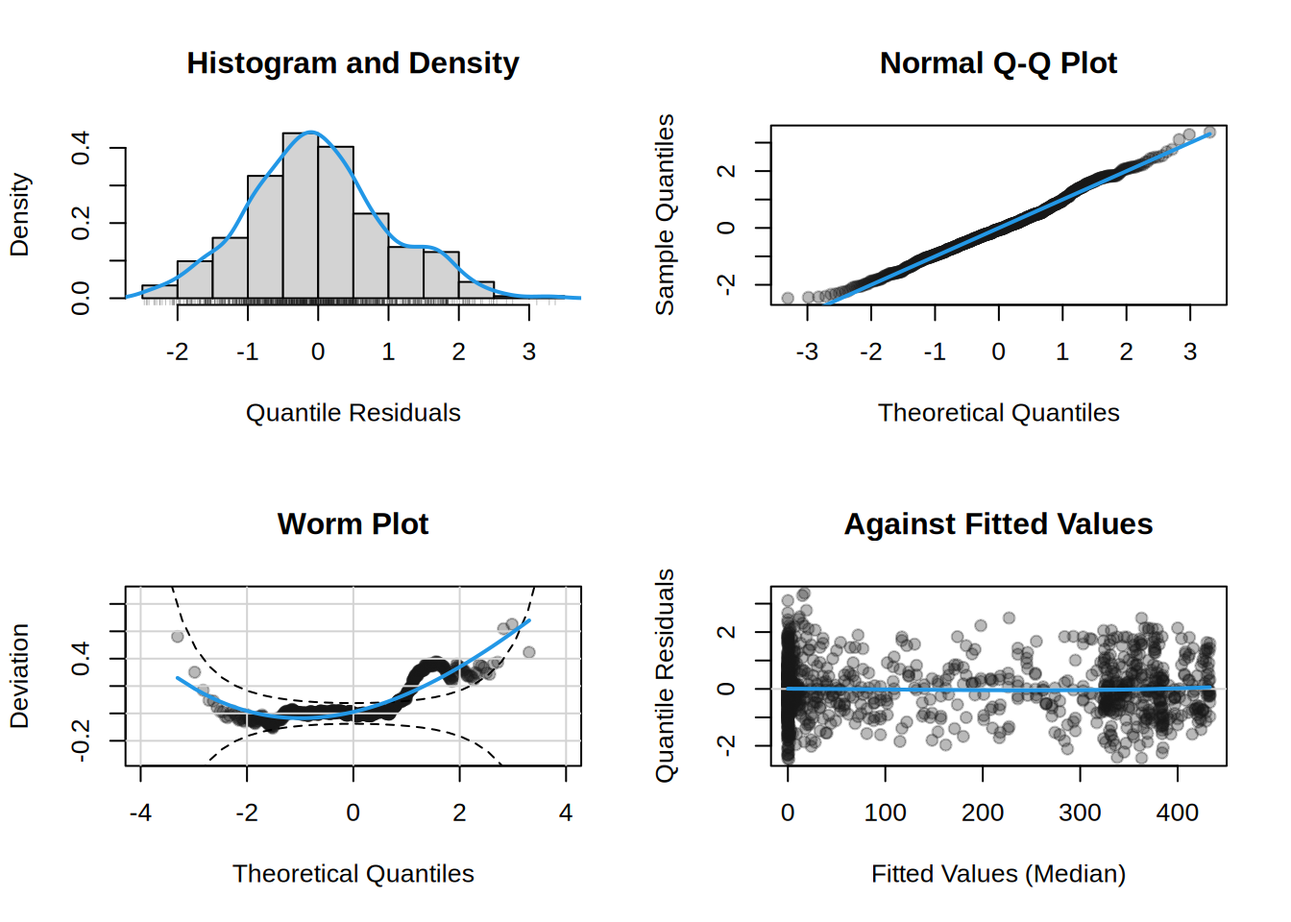
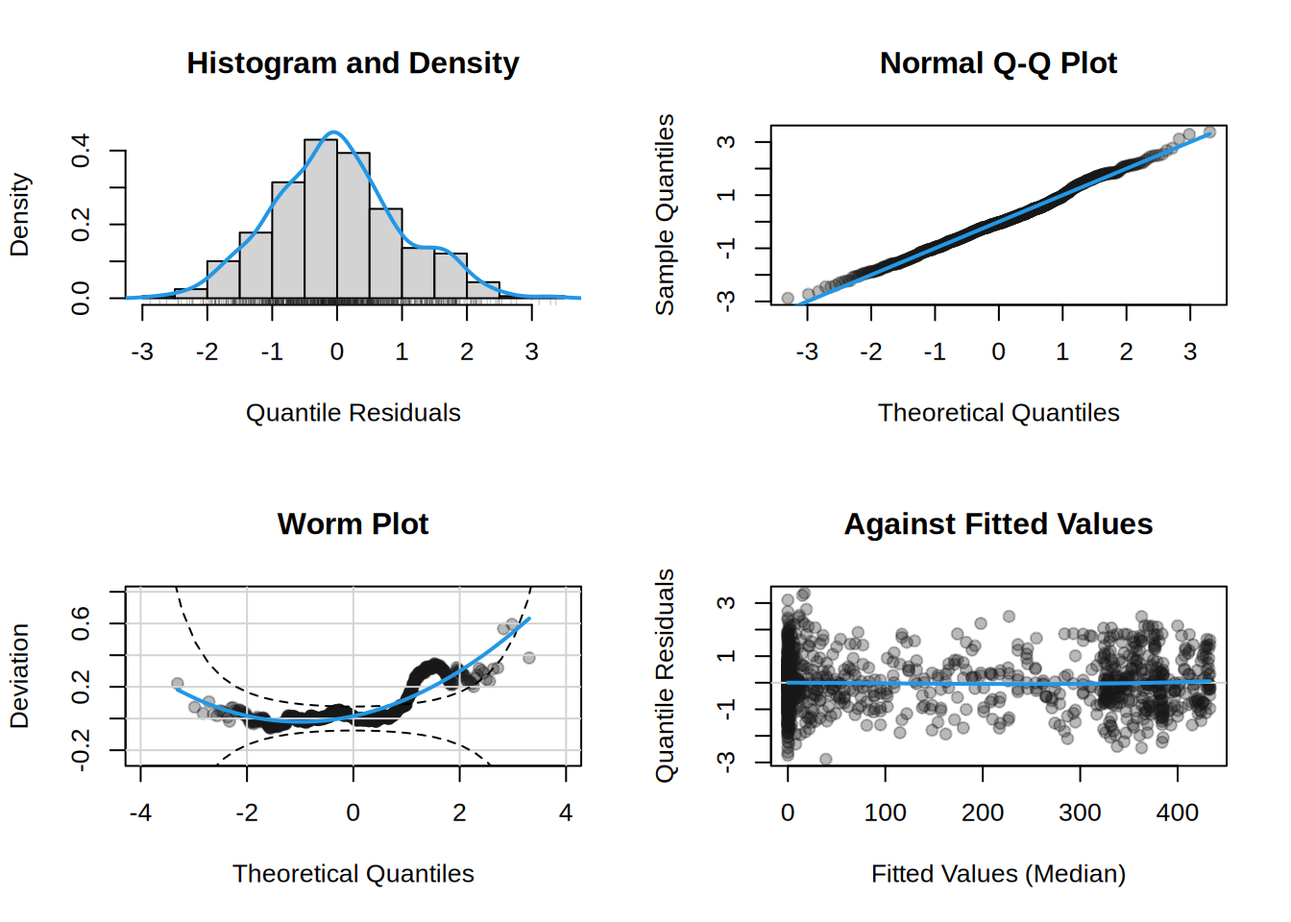
Deploying to gh-pages from @ gamlss-dev/gamlss2@9775f14df7013b6e7da98de3ab392d1b850da99a 🚀

diff --git a/man/la.html b/man/la.html
@@ -641,7 +641,7 @@ For function <code>la()</code> further control arguments can be passed: The <cod
 <p>For normal Lasso penalties, numeric covariates and matrices are scaled column-wise so that each column has Euclidean norm <span class="math inline">\(\sqrt{n}\)</span>. This corresponds to standard Lasso scaling and ensures that shrinkage is applied uniformly across covariates. If a factor is used with a normal penalty, a single scalar scaling is applied, analogous to the ordinal and nominal cases.</p>
 </dd>
 </dl>
-<p>The applied scaling is stored internally and automatically reused during prediction. When <code>plot_lasso()</code> is called with <code>rescale = TRUE</code>, coefficient paths are transformed back to the original parameterization to facilitate interpretation.</p>
+<p>The applied scaling is stored internally and automatically reused during prediction.</p>
 </section>
 <section id="value" class="level3">
 <h3 class="anchored" data-anchor-id="value">Value</h3>
@@ -666,16 +666,16 @@ For function <code>la()</code> further control arguments can be passed: The <cod
 <span id="cb1-4"><a href="#cb1-4" aria-hidden="true" tabindex="-1"></a><span class="fu">data</span>(<span class="st">"rent"</span>, <span class="at">package =</span> <span class="st">"gamlss.data"</span>)</span>
 <span id="cb1-5"><a href="#cb1-5" aria-hidden="true" tabindex="-1"></a></span>
 <span id="cb1-6"><a href="#cb1-6" aria-hidden="true" tabindex="-1"></a><span class="do">## transform numeric to factor variables</span></span>
-<span id="cb1-7"><a href="#cb1-7" aria-hidden="true" tabindex="-1"></a>rent<span class="sc">$</span>Flc <span class="ot">&lt;-</span> <span class="fu">cut</span>(rent<span class="sc">$</span>Fl, <span class="at">breaks =</span> <span class="fu">seq</span>(<span class="dv">20</span>, <span class="dv">160</span>, <span class="at">by =</span> <span class="dv">10</span>),</span>
+<span id="cb1-7"><a href="#cb1-7" aria-hidden="true" tabindex="-1"></a>rent<span class="sc">$</span>Flc <span class="ot">&lt;-</span> <span class="fu">cut</span>(rent<span class="sc">$</span>Fl, <span class="at">breaks =</span> <span class="fu">seq</span>(<span class="dv">20</span>, <span class="dv">120</span>, <span class="at">by =</span> <span class="dv">10</span>),</span>
 <span id="cb1-8"><a href="#cb1-8" aria-hidden="true" tabindex="-1"></a>  <span class="at">include.lowest =</span> <span class="cn">TRUE</span>)</span>
 <span id="cb1-9"><a href="#cb1-9" aria-hidden="true" tabindex="-1"></a>rent<span class="sc">$</span>Ac <span class="ot">&lt;-</span> <span class="fu">cut</span>(rent<span class="sc">$</span>A, <span class="at">breaks =</span> <span class="fu">seq</span>(<span class="dv">1890</span>, <span class="dv">1990</span>, <span class="at">by =</span> <span class="dv">10</span>),</span>
 <span id="cb1-10"><a href="#cb1-10" aria-hidden="true" tabindex="-1"></a>  <span class="at">include.lowest =</span> <span class="cn">TRUE</span>)</span>
 <span id="cb1-11"><a href="#cb1-11" aria-hidden="true" tabindex="-1"></a></span>
-<span id="cb1-12"><a href="#cb1-12" aria-hidden="true" tabindex="-1"></a><span class="do">## set up the model formula for a BCT model</span></span>
-<span id="cb1-13"><a href="#cb1-13" aria-hidden="true" tabindex="-1"></a>f <span class="ot">&lt;-</span> R <span class="sc">~</span> <span class="fu">la</span>(Flc,<span class="at">type=</span><span class="dv">3</span>) <span class="sc">+</span> <span class="fu">la</span>(Ac,<span class="at">type=</span><span class="dv">3</span>) <span class="sc">+</span> <span class="fu">la</span>(loc,<span class="at">type=</span><span class="dv">3</span>) <span class="sc">|</span> . <span class="sc">|</span> .</span>
+<span id="cb1-12"><a href="#cb1-12" aria-hidden="true" tabindex="-1"></a><span class="do">## set up the model formula for a NO model</span></span>
+<span id="cb1-13"><a href="#cb1-13" aria-hidden="true" tabindex="-1"></a>f <span class="ot">&lt;-</span> R <span class="sc">~</span> <span class="fu">la</span>(Flc,<span class="at">type=</span><span class="dv">3</span>) <span class="sc">+</span> <span class="fu">la</span>(Ac,<span class="at">type=</span><span class="dv">3</span>) <span class="sc">+</span> <span class="fu">la</span>(loc,<span class="at">type=</span><span class="dv">3</span>) <span class="sc">|</span> .</span>
 <span id="cb1-14"><a href="#cb1-14" aria-hidden="true" tabindex="-1"></a></span>
 <span id="cb1-15"><a href="#cb1-15" aria-hidden="true" tabindex="-1"></a><span class="do">## estimation</span></span>
-<span id="cb1-16"><a href="#cb1-16" aria-hidden="true" tabindex="-1"></a>b <span class="ot">&lt;-</span> <span class="fu">gamlss2</span>(f, <span class="at">data =</span> rent, <span class="at">family =</span> BCT)</span>
+<span id="cb1-16"><a href="#cb1-16" aria-hidden="true" tabindex="-1"></a>b <span class="ot">&lt;-</span> <span class="fu">gamlss2</span>(f, <span class="at">data =</span> rent, <span class="at">family =</span> NO)</span>
 <span id="cb1-17"><a href="#cb1-17" aria-hidden="true" tabindex="-1"></a></span>
 <span id="cb1-18"><a href="#cb1-18" aria-hidden="true" tabindex="-1"></a><span class="do">## summary, shows the estimated degrees of freedom</span></span>
 <span id="cb1-19"><a href="#cb1-19" aria-hidden="true" tabindex="-1"></a><span class="do">## for each model term</span></span>
@@ -692,64 +692,64 @@ For function <code>la()</code> further control arguments can be passed: The <cod
 <span id="cb1-30"><a href="#cb1-30" aria-hidden="true" tabindex="-1"></a><span class="fu">plot_lasso</span>(b, <span class="at">which =</span> <span class="st">"coefficients"</span>)</span>
 <span id="cb1-31"><a href="#cb1-31" aria-hidden="true" tabindex="-1"></a></span>
 <span id="cb1-32"><a href="#cb1-32" aria-hidden="true" tabindex="-1"></a><span class="do">## plot a single model term.</span></span>
-<span id="cb1-33"><a href="#cb1-33" aria-hidden="true" tabindex="-1"></a><span class="fu">plot_lasso</span>(b, <span class="at">which =</span> <span class="st">"coefficients"</span>, <span class="at">term =</span> <span class="dv">5</span>)</span>
+<span id="cb1-33"><a href="#cb1-33" aria-hidden="true" tabindex="-1"></a><span class="fu">plot_lasso</span>(b, <span class="at">which =</span> <span class="st">"coefficients"</span>, <span class="at">term =</span> <span class="dv">1</span>)</span>
 <span id="cb1-34"><a href="#cb1-34" aria-hidden="true" tabindex="-1"></a></span>
 <span id="cb1-35"><a href="#cb1-35" aria-hidden="true" tabindex="-1"></a><span class="do">## same with</span></span>
-<span id="cb1-36"><a href="#cb1-36" aria-hidden="true" tabindex="-1"></a><span class="fu">plot_lasso</span>(b, <span class="at">which =</span> <span class="st">"coefficients"</span>, <span class="at">term =</span> <span class="st">"sigma.la(Ac"</span>)</span>
+<span id="cb1-36"><a href="#cb1-36" aria-hidden="true" tabindex="-1"></a><span class="fu">plot_lasso</span>(b, <span class="at">which =</span> <span class="st">"coefficients"</span>, <span class="at">term =</span> <span class="st">"mu.la(Flc"</span>)</span>
 <span id="cb1-37"><a href="#cb1-37" aria-hidden="true" tabindex="-1"></a></span>
 <span id="cb1-38"><a href="#cb1-38" aria-hidden="true" tabindex="-1"></a><span class="do">## zoom out</span></span>
-<span id="cb1-39"><a href="#cb1-39" aria-hidden="true" tabindex="-1"></a><span class="fu">plot_lasso</span>(b, <span class="at">which =</span> <span class="st">"coefficients"</span>, <span class="at">term =</span> <span class="dv">5</span>,</span>
+<span id="cb1-39"><a href="#cb1-39" aria-hidden="true" tabindex="-1"></a><span class="fu">plot_lasso</span>(b, <span class="at">which =</span> <span class="st">"coefficients"</span>, <span class="at">term =</span> <span class="dv">1</span>,</span>
 <span id="cb1-40"><a href="#cb1-40" aria-hidden="true" tabindex="-1"></a>  <span class="at">zoom =</span> <span class="fu">c</span>(<span class="dv">8</span>, <span class="dv">7</span>))</span>
 <span id="cb1-41"><a href="#cb1-41" aria-hidden="true" tabindex="-1"></a></span>
 <span id="cb1-42"><a href="#cb1-42" aria-hidden="true" tabindex="-1"></a><span class="do">## set names</span></span>
-<span id="cb1-43"><a href="#cb1-43" aria-hidden="true" tabindex="-1"></a><span class="fu">plot_lasso</span>(b, <span class="at">which =</span> <span class="st">"coefficients"</span>, <span class="at">term =</span> <span class="dv">5</span>,</span>
-<span id="cb1-44"><a href="#cb1-44" aria-hidden="true" tabindex="-1"></a>  <span class="at">zoom =</span> <span class="fu">c</span>(<span class="dv">8</span>, <span class="dv">7</span>), <span class="at">names =</span> <span class="fu">c</span>(<span class="st">"A"</span>, <span class="st">"B"</span>, <span class="st">"C"</span>))</span>
+<span id="cb1-43"><a href="#cb1-43" aria-hidden="true" tabindex="-1"></a><span class="fu">plot_lasso</span>(b, <span class="at">which =</span> <span class="st">"coefficients"</span>, <span class="at">term =</span> <span class="dv">1</span>,</span>
+<span id="cb1-44"><a href="#cb1-44" aria-hidden="true" tabindex="-1"></a>  <span class="at">zoom =</span> <span class="dv">10</span>, <span class="at">names =</span> <span class="fu">c</span>(<span class="st">"A"</span>, <span class="st">"B"</span>, <span class="st">"C"</span>))</span>
 <span id="cb1-45"><a href="#cb1-45" aria-hidden="true" tabindex="-1"></a></span>
 <span id="cb1-46"><a href="#cb1-46" aria-hidden="true" tabindex="-1"></a><span class="do">## set title</span></span>
-<span id="cb1-47"><a href="#cb1-47" aria-hidden="true" tabindex="-1"></a><span class="fu">plot_lasso</span>(b, <span class="at">which =</span> <span class="st">"coefficients"</span>, <span class="at">term =</span> <span class="dv">5</span>,</span>
-<span id="cb1-48"><a href="#cb1-48" aria-hidden="true" tabindex="-1"></a>  <span class="at">zoom =</span> <span class="fu">c</span>(<span class="dv">8</span>, <span class="dv">7</span>), <span class="at">main =</span> <span class="st">"Fused Lasso"</span>)</span>
-<span id="cb1-49"><a href="#cb1-49" aria-hidden="true" tabindex="-1"></a></span>
-<span id="cb1-50"><a href="#cb1-50" aria-hidden="true" tabindex="-1"></a><span class="do">## simulated example using the normal lasso</span></span>
-<span id="cb1-51"><a href="#cb1-51" aria-hidden="true" tabindex="-1"></a><span class="do">## and a matrix as argument for la()</span></span>
-<span id="cb1-52"><a href="#cb1-52" aria-hidden="true" tabindex="-1"></a><span class="fu">set.seed</span>(<span class="dv">123</span>)</span>
-<span id="cb1-53"><a href="#cb1-53" aria-hidden="true" tabindex="-1"></a></span>
-<span id="cb1-54"><a href="#cb1-54" aria-hidden="true" tabindex="-1"></a><span class="do">## number of observations and covariates</span></span>
-<span id="cb1-55"><a href="#cb1-55" aria-hidden="true" tabindex="-1"></a>n <span class="ot">&lt;-</span> <span class="dv">500</span></span>
-<span id="cb1-56"><a href="#cb1-56" aria-hidden="true" tabindex="-1"></a>k <span class="ot">&lt;-</span> <span class="dv">50</span></span>
-<span id="cb1-57"><a href="#cb1-57" aria-hidden="true" tabindex="-1"></a></span>
-<span id="cb1-58"><a href="#cb1-58" aria-hidden="true" tabindex="-1"></a><span class="do">## model matrix</span></span>
-<span id="cb1-59"><a href="#cb1-59" aria-hidden="true" tabindex="-1"></a>X <span class="ot">&lt;-</span> <span class="fu">matrix</span>(<span class="fu">rnorm</span>(n <span class="sc">*</span> k), n, k)</span>
-<span id="cb1-60"><a href="#cb1-60" aria-hidden="true" tabindex="-1"></a><span class="fu">colnames</span>(X) <span class="ot">&lt;-</span> <span class="fu">paste0</span>(<span class="st">"x"</span>, <span class="dv">1</span><span class="sc">:</span>k)</span>
-<span id="cb1-61"><a href="#cb1-61" aria-hidden="true" tabindex="-1"></a></span>
-<span id="cb1-62"><a href="#cb1-62" aria-hidden="true" tabindex="-1"></a><span class="do">## true coefficients</span></span>
-<span id="cb1-63"><a href="#cb1-63" aria-hidden="true" tabindex="-1"></a>beta <span class="ot">&lt;-</span> <span class="fu">list</span>(</span>
-<span id="cb1-64"><a href="#cb1-64" aria-hidden="true" tabindex="-1"></a>  <span class="st">"mu"</span> <span class="ot">=</span> <span class="fu">rbinom</span>(k, <span class="dv">1</span>, <span class="fl">0.1</span>),</span>
-<span id="cb1-65"><a href="#cb1-65" aria-hidden="true" tabindex="-1"></a>  <span class="st">"sigma"</span> <span class="ot">=</span> <span class="fu">rbinom</span>(k, <span class="dv">1</span>, <span class="fl">0.1</span>) <span class="sc">*</span> <span class="fl">0.3</span></span>
-<span id="cb1-66"><a href="#cb1-66" aria-hidden="true" tabindex="-1"></a>)</span>
-<span id="cb1-67"><a href="#cb1-67" aria-hidden="true" tabindex="-1"></a></span>
-<span id="cb1-68"><a href="#cb1-68" aria-hidden="true" tabindex="-1"></a><span class="do">## parameters</span></span>
-<span id="cb1-69"><a href="#cb1-69" aria-hidden="true" tabindex="-1"></a>mu <span class="ot">&lt;-</span> X <span class="sc">%*%</span> beta<span class="sc">$</span>mu</span>
-<span id="cb1-70"><a href="#cb1-70" aria-hidden="true" tabindex="-1"></a>sigma <span class="ot">&lt;-</span> <span class="fu">exp</span>(<span class="sc">-</span><span class="dv">1</span> <span class="sc">+</span> X <span class="sc">%*%</span> beta<span class="sc">$</span>sigma)</span>
-<span id="cb1-71"><a href="#cb1-71" aria-hidden="true" tabindex="-1"></a></span>
-<span id="cb1-72"><a href="#cb1-72" aria-hidden="true" tabindex="-1"></a><span class="do">## response</span></span>
-<span id="cb1-73"><a href="#cb1-73" aria-hidden="true" tabindex="-1"></a>y <span class="ot">&lt;-</span> <span class="fu">rnorm</span>(n, <span class="at">mean =</span> mu, <span class="at">sd =</span> sigma)</span>
-<span id="cb1-74"><a href="#cb1-74" aria-hidden="true" tabindex="-1"></a></span>
-<span id="cb1-75"><a href="#cb1-75" aria-hidden="true" tabindex="-1"></a><span class="do">## model formula with nominal fused lasso</span></span>
-<span id="cb1-76"><a href="#cb1-76" aria-hidden="true" tabindex="-1"></a>f <span class="ot">&lt;-</span> y <span class="sc">~</span> <span class="fu">la</span>(X,<span class="at">type=</span><span class="dv">4</span>) <span class="sc">|</span> <span class="fu">la</span>(X,<span class="at">type=</span><span class="dv">4</span>)</span>
-<span id="cb1-77"><a href="#cb1-77" aria-hidden="true" tabindex="-1"></a></span>
-<span id="cb1-78"><a href="#cb1-78" aria-hidden="true" tabindex="-1"></a><span class="do">## estimate model incl. extra ridge penalty</span></span>
-<span id="cb1-79"><a href="#cb1-79" aria-hidden="true" tabindex="-1"></a><span class="do">## for all la() model terms</span></span>
-<span id="cb1-80"><a href="#cb1-80" aria-hidden="true" tabindex="-1"></a>b <span class="ot">&lt;-</span> <span class="fu">gamlss2</span>(f, <span class="at">add_ridge =</span> <span class="cn">TRUE</span>)</span>
-<span id="cb1-81"><a href="#cb1-81" aria-hidden="true" tabindex="-1"></a></span>
-<span id="cb1-82"><a href="#cb1-82" aria-hidden="true" tabindex="-1"></a><span class="do">## plot information criteria curves</span></span>
-<span id="cb1-83"><a href="#cb1-83" aria-hidden="true" tabindex="-1"></a><span class="fu">plot_lasso</span>(b)</span>
-<span id="cb1-84"><a href="#cb1-84" aria-hidden="true" tabindex="-1"></a></span>
-<span id="cb1-85"><a href="#cb1-85" aria-hidden="true" tabindex="-1"></a><span class="do">## coefficient paths</span></span>
-<span id="cb1-86"><a href="#cb1-86" aria-hidden="true" tabindex="-1"></a><span class="fu">plot_lasso</span>(b, <span class="at">which =</span> <span class="st">"coefficients"</span>)</span>
-<span id="cb1-87"><a href="#cb1-87" aria-hidden="true" tabindex="-1"></a></span>
-<span id="cb1-88"><a href="#cb1-88" aria-hidden="true" tabindex="-1"></a><span class="do">## zoom out</span></span>
-<span id="cb1-89"><a href="#cb1-89" aria-hidden="true" tabindex="-1"></a><span class="fu">plot_lasso</span>(b, <span class="at">which =</span> <span class="st">"coefficients"</span>,</span>
-<span id="cb1-90"><a href="#cb1-90" aria-hidden="true" tabindex="-1"></a>  <span class="at">zoom =</span> <span class="fu">c</span>(<span class="dv">8</span>, <span class="dv">9</span>))</span>
+<span id="cb1-47"><a href="#cb1-47" aria-hidden="true" tabindex="-1"></a><span class="fu">plot_lasso</span>(b, <span class="at">which =</span> <span class="st">"coefficients"</span>, <span class="at">term =</span> <span class="dv">1</span>,</span>
+<span id="cb1-48"><a href="#cb1-48" aria-hidden="true" tabindex="-1"></a>  <span class="at">zoom =</span> <span class="dv">10</span>, <span class="at">main =</span> <span class="st">"Fused Lasso"</span>,</span>
+<span id="cb1-49"><a href="#cb1-49" aria-hidden="true" tabindex="-1"></a>  <span class="at">info =</span> <span class="cn">TRUE</span>, <span class="at">cex.info =</span> <span class="fl">0.9</span>)</span>
+<span id="cb1-50"><a href="#cb1-50" aria-hidden="true" tabindex="-1"></a></span>
+<span id="cb1-51"><a href="#cb1-51" aria-hidden="true" tabindex="-1"></a><span class="do">## simulated example using the normal lasso</span></span>
+<span id="cb1-52"><a href="#cb1-52" aria-hidden="true" tabindex="-1"></a><span class="do">## and a matrix as argument for la()</span></span>
+<span id="cb1-53"><a href="#cb1-53" aria-hidden="true" tabindex="-1"></a><span class="fu">set.seed</span>(<span class="dv">123</span>)</span>
+<span id="cb1-54"><a href="#cb1-54" aria-hidden="true" tabindex="-1"></a></span>
+<span id="cb1-55"><a href="#cb1-55" aria-hidden="true" tabindex="-1"></a><span class="do">## number of observations and covariates</span></span>
+<span id="cb1-56"><a href="#cb1-56" aria-hidden="true" tabindex="-1"></a>n <span class="ot">&lt;-</span> <span class="dv">500</span></span>
+<span id="cb1-57"><a href="#cb1-57" aria-hidden="true" tabindex="-1"></a>k <span class="ot">&lt;-</span> <span class="dv">50</span></span>
+<span id="cb1-58"><a href="#cb1-58" aria-hidden="true" tabindex="-1"></a></span>
+<span id="cb1-59"><a href="#cb1-59" aria-hidden="true" tabindex="-1"></a><span class="do">## model matrix</span></span>
+<span id="cb1-60"><a href="#cb1-60" aria-hidden="true" tabindex="-1"></a>X <span class="ot">&lt;-</span> <span class="fu">matrix</span>(<span class="fu">rnorm</span>(n <span class="sc">*</span> k), n, k)</span>
+<span id="cb1-61"><a href="#cb1-61" aria-hidden="true" tabindex="-1"></a><span class="fu">colnames</span>(X) <span class="ot">&lt;-</span> <span class="fu">paste0</span>(<span class="st">"x"</span>, <span class="dv">1</span><span class="sc">:</span>k)</span>
+<span id="cb1-62"><a href="#cb1-62" aria-hidden="true" tabindex="-1"></a></span>
+<span id="cb1-63"><a href="#cb1-63" aria-hidden="true" tabindex="-1"></a><span class="do">## true coefficients</span></span>
+<span id="cb1-64"><a href="#cb1-64" aria-hidden="true" tabindex="-1"></a>beta <span class="ot">&lt;-</span> <span class="fu">list</span>(</span>
+<span id="cb1-65"><a href="#cb1-65" aria-hidden="true" tabindex="-1"></a>  <span class="st">"mu"</span> <span class="ot">=</span> <span class="fu">rbinom</span>(k, <span class="dv">1</span>, <span class="fl">0.1</span>),</span>
+<span id="cb1-66"><a href="#cb1-66" aria-hidden="true" tabindex="-1"></a>  <span class="st">"sigma"</span> <span class="ot">=</span> <span class="fu">rbinom</span>(k, <span class="dv">1</span>, <span class="fl">0.1</span>) <span class="sc">*</span> <span class="fl">0.3</span></span>
+<span id="cb1-67"><a href="#cb1-67" aria-hidden="true" tabindex="-1"></a>)</span>
+<span id="cb1-68"><a href="#cb1-68" aria-hidden="true" tabindex="-1"></a></span>
+<span id="cb1-69"><a href="#cb1-69" aria-hidden="true" tabindex="-1"></a><span class="do">## parameters</span></span>
+<span id="cb1-70"><a href="#cb1-70" aria-hidden="true" tabindex="-1"></a>mu <span class="ot">&lt;-</span> X <span class="sc">%*%</span> beta<span class="sc">$</span>mu</span>
+<span id="cb1-71"><a href="#cb1-71" aria-hidden="true" tabindex="-1"></a>sigma <span class="ot">&lt;-</span> <span class="fu">exp</span>(<span class="sc">-</span><span class="dv">1</span> <span class="sc">+</span> X <span class="sc">%*%</span> beta<span class="sc">$</span>sigma)</span>
+<span id="cb1-72"><a href="#cb1-72" aria-hidden="true" tabindex="-1"></a></span>
+<span id="cb1-73"><a href="#cb1-73" aria-hidden="true" tabindex="-1"></a><span class="do">## response</span></span>
+<span id="cb1-74"><a href="#cb1-74" aria-hidden="true" tabindex="-1"></a>y <span class="ot">&lt;-</span> <span class="fu">rnorm</span>(n, <span class="at">mean =</span> mu, <span class="at">sd =</span> sigma)</span>
+<span id="cb1-75"><a href="#cb1-75" aria-hidden="true" tabindex="-1"></a></span>
+<span id="cb1-76"><a href="#cb1-76" aria-hidden="true" tabindex="-1"></a><span class="do">## model formula with nominal fused lasso</span></span>
+<span id="cb1-77"><a href="#cb1-77" aria-hidden="true" tabindex="-1"></a>f <span class="ot">&lt;-</span> y <span class="sc">~</span> <span class="fu">la</span>(X,<span class="at">type=</span><span class="dv">4</span>) <span class="sc">|</span> <span class="fu">la</span>(X,<span class="at">type=</span><span class="dv">4</span>)</span>
+<span id="cb1-78"><a href="#cb1-78" aria-hidden="true" tabindex="-1"></a></span>
+<span id="cb1-79"><a href="#cb1-79" aria-hidden="true" tabindex="-1"></a><span class="do">## estimate model incl. extra ridge penalty</span></span>
+<span id="cb1-80"><a href="#cb1-80" aria-hidden="true" tabindex="-1"></a><span class="do">## for all la() model terms</span></span>
+<span id="cb1-81"><a href="#cb1-81" aria-hidden="true" tabindex="-1"></a>b <span class="ot">&lt;-</span> <span class="fu">gamlss2</span>(f, <span class="at">add_ridge =</span> <span class="cn">TRUE</span>)</span>
+<span id="cb1-82"><a href="#cb1-82" aria-hidden="true" tabindex="-1"></a></span>
+<span id="cb1-83"><a href="#cb1-83" aria-hidden="true" tabindex="-1"></a><span class="do">## plot information criteria curves</span></span>
+<span id="cb1-84"><a href="#cb1-84" aria-hidden="true" tabindex="-1"></a><span class="fu">plot_lasso</span>(b)</span>
+<span id="cb1-85"><a href="#cb1-85" aria-hidden="true" tabindex="-1"></a></span>
+<span id="cb1-86"><a href="#cb1-86" aria-hidden="true" tabindex="-1"></a><span class="do">## coefficient paths</span></span>
+<span id="cb1-87"><a href="#cb1-87" aria-hidden="true" tabindex="-1"></a><span class="fu">plot_lasso</span>(b, <span class="at">which =</span> <span class="st">"coefficients"</span>)</span>
+<span id="cb1-88"><a href="#cb1-88" aria-hidden="true" tabindex="-1"></a></span>
+<span id="cb1-89"><a href="#cb1-89" aria-hidden="true" tabindex="-1"></a><span class="do">## zoom out</span></span>
+<span id="cb1-90"><a href="#cb1-90" aria-hidden="true" tabindex="-1"></a><span class="fu">plot_lasso</span>(b, <span class="at">which =</span> <span class="st">"coefficients"</span>, <span class="at">zoom =</span> <span class="dv">10</span>)</span>
 <span id="cb1-91"><a href="#cb1-91" aria-hidden="true" tabindex="-1"></a></span>
 <span id="cb1-92"><a href="#cb1-92" aria-hidden="true" tabindex="-1"></a><span class="do">## extract coefficients</span></span>
 <span id="cb1-93"><a href="#cb1-93" aria-hidden="true" tabindex="-1"></a>cb <span class="ot">&lt;-</span> <span class="fu">coef</span>(b, <span class="at">full =</span> <span class="cn">TRUE</span>)</span>
@@ -789,7 +789,7 @@ For function <code>la()</code> further control arguments can be passed: The <cod
 <span id="cb1-127"><a href="#cb1-127" aria-hidden="true" tabindex="-1"></a><span class="do">## coefficient paths</span></span>
 <span id="cb1-128"><a href="#cb1-128" aria-hidden="true" tabindex="-1"></a><span class="fu">plot_lasso</span>(b, <span class="at">which =</span> <span class="st">"coefficients"</span>, <span class="at">zoom =</span> <span class="dv">15</span>)</span>
 <span id="cb1-129"><a href="#cb1-129" aria-hidden="true" tabindex="-1"></a></span>
-<span id="cb1-130"><a href="#cb1-130" aria-hidden="true" tabindex="-1"></a><span class="do">## plot estimated qauntiles</span></span>
+<span id="cb1-130"><a href="#cb1-130" aria-hidden="true" tabindex="-1"></a><span class="do">## plot estimated quantiles</span></span>
 <span id="cb1-131"><a href="#cb1-131" aria-hidden="true" tabindex="-1"></a>qu <span class="ot">&lt;-</span> <span class="fu">quantile</span>(b, <span class="at">probs =</span> <span class="fu">c</span>(<span class="fl">0.05</span>, <span class="fl">0.5</span>, <span class="fl">0.95</span>))</span>
 <span id="cb1-132"><a href="#cb1-132" aria-hidden="true" tabindex="-1"></a><span class="fu">plot</span>(bikes <span class="sc">~</span> yday, <span class="at">data =</span> HarzTraffic, <span class="at">col =</span> <span class="fu">adjustcolor</span>(<span class="dv">1</span>, <span class="at">alpha =</span> <span class="fl">0.3</span>))</span>
 <span id="cb1-133"><a href="#cb1-133" aria-hidden="true" tabindex="-1"></a><span class="fu">with</span>(HarzTraffic, <span class="fu">matplot</span>(yday[i], qu[i, ],</span>

diff --git a/man/prodist.gamlss2.html b/man/prodist.gamlss2.html
@@ -626,10 +626,10 @@ GAMLSS-RS iteration  4: Global Deviance = 406.1491 eps = 0.000007     </code></p
 <div class="code-copy-outer-scaffold"><div class="sourceCode cell-code" id="cb16"><pre class="sourceCode r code-with-copy"><code class="sourceCode r"><span id="cb16-1"><a href="#cb16-1" aria-hidden="true" tabindex="-1"></a><span class="do">## simulate random numbers</span></span>
 <span id="cb16-2"><a href="#cb16-2" aria-hidden="true" tabindex="-1"></a><span class="fu">random</span>(d, <span class="dv">5</span>)</span></code></pre></div><button title="Copy to Clipboard" class="code-copy-button"><i class="bi"></i></button></div>
 <div class="cell-output cell-output-stdout">
-<pre><code>       r_1       r_2       r_3      r_4       r_5
-1 20.27323  35.13572  21.53358 13.53250  11.62033
-2 33.73944  81.47981  65.68735 55.35462  27.10152
-3 39.02834 131.44013 159.94322 68.67444 104.33963</code></pre>
+<pre><code>         r_1      r_2      r_3      r_4      r_5
+1   6.521407 35.99378 23.52230 29.47693 19.94618
+2  80.993438 51.13206 82.01618 87.46950 36.90818
+3 133.048987 61.29437 94.61020 95.96492 80.84525</code></pre>
 </div>
 <div class="code-copy-outer-scaffold"><div class="sourceCode cell-code" id="cb18"><pre class="sourceCode r code-with-copy"><code class="sourceCode r"><span id="cb18-1"><a href="#cb18-1" aria-hidden="true" tabindex="-1"></a><span class="do">## density and distribution</span></span>
 <span id="cb18-2"><a href="#cb18-2" aria-hidden="true" tabindex="-1"></a><span class="fu">pdf</span>(d, <span class="dv">50</span> <span class="sc">*</span> <span class="sc">-</span><span class="dv">2</span><span class="sc">:</span><span class="dv">2</span>)</span></code></pre></div><button title="Copy to Clipboard" class="code-copy-button"><i class="bi"></i></button></div>

diff --git a/man/gamlss2.html b/man/gamlss2.html
@@ -689,7 +689,7 @@ edf  4.5505     2.5450  1.0015   1.0004
 *--------
 n = 610 df =  13.1 res.df =  596.9
 Deviance = 4770.1544 Null Dev. Red. = 33.39%
-AIC = 4796.3494 elapsed =  0.89sec</code></pre>
+AIC = 4796.3494 elapsed =  0.86sec</code></pre>
 </div>
 <div class="code-copy-outer-scaffold"><div class="sourceCode cell-code" id="cb5"><pre class="sourceCode r code-with-copy"><code class="sourceCode r"><span id="cb5-1"><a href="#cb5-1" aria-hidden="true" tabindex="-1"></a><span class="do">## plot estimated effects</span></span>
 <span id="cb5-2"><a href="#cb5-2" aria-hidden="true" tabindex="-1"></a><span class="fu">plot</span>(b, <span class="at">which =</span> <span class="st">"effects"</span>)</span></code></pre></div><button title="Copy to Clipboard" class="code-copy-button"><i class="bi"></i></button></div>
